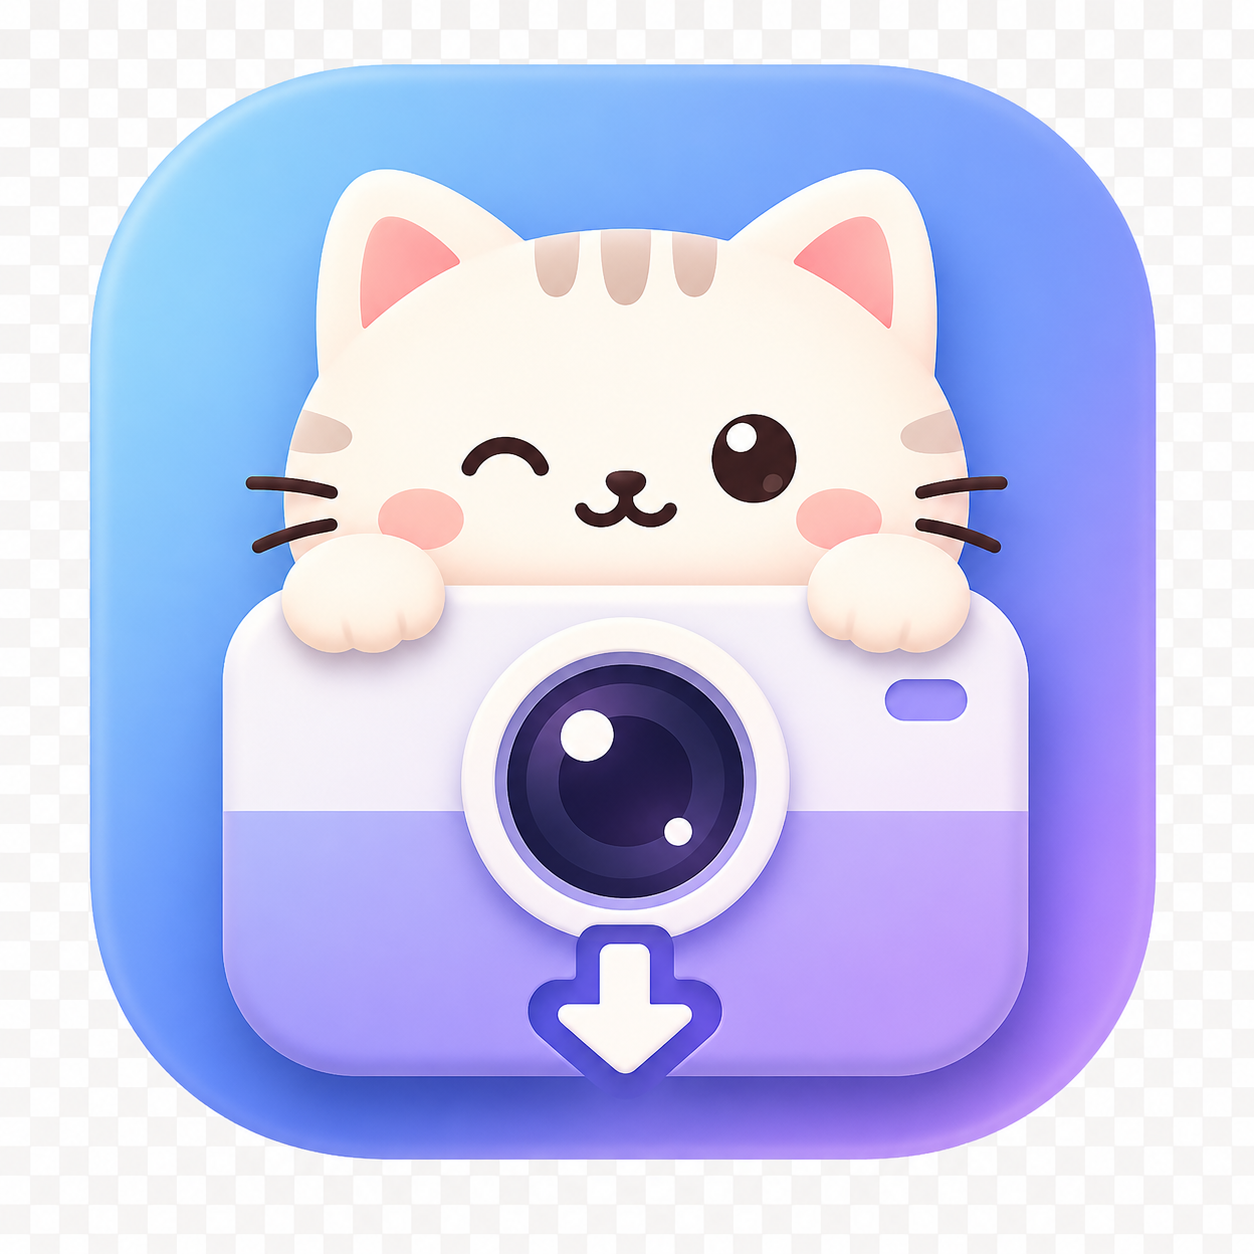
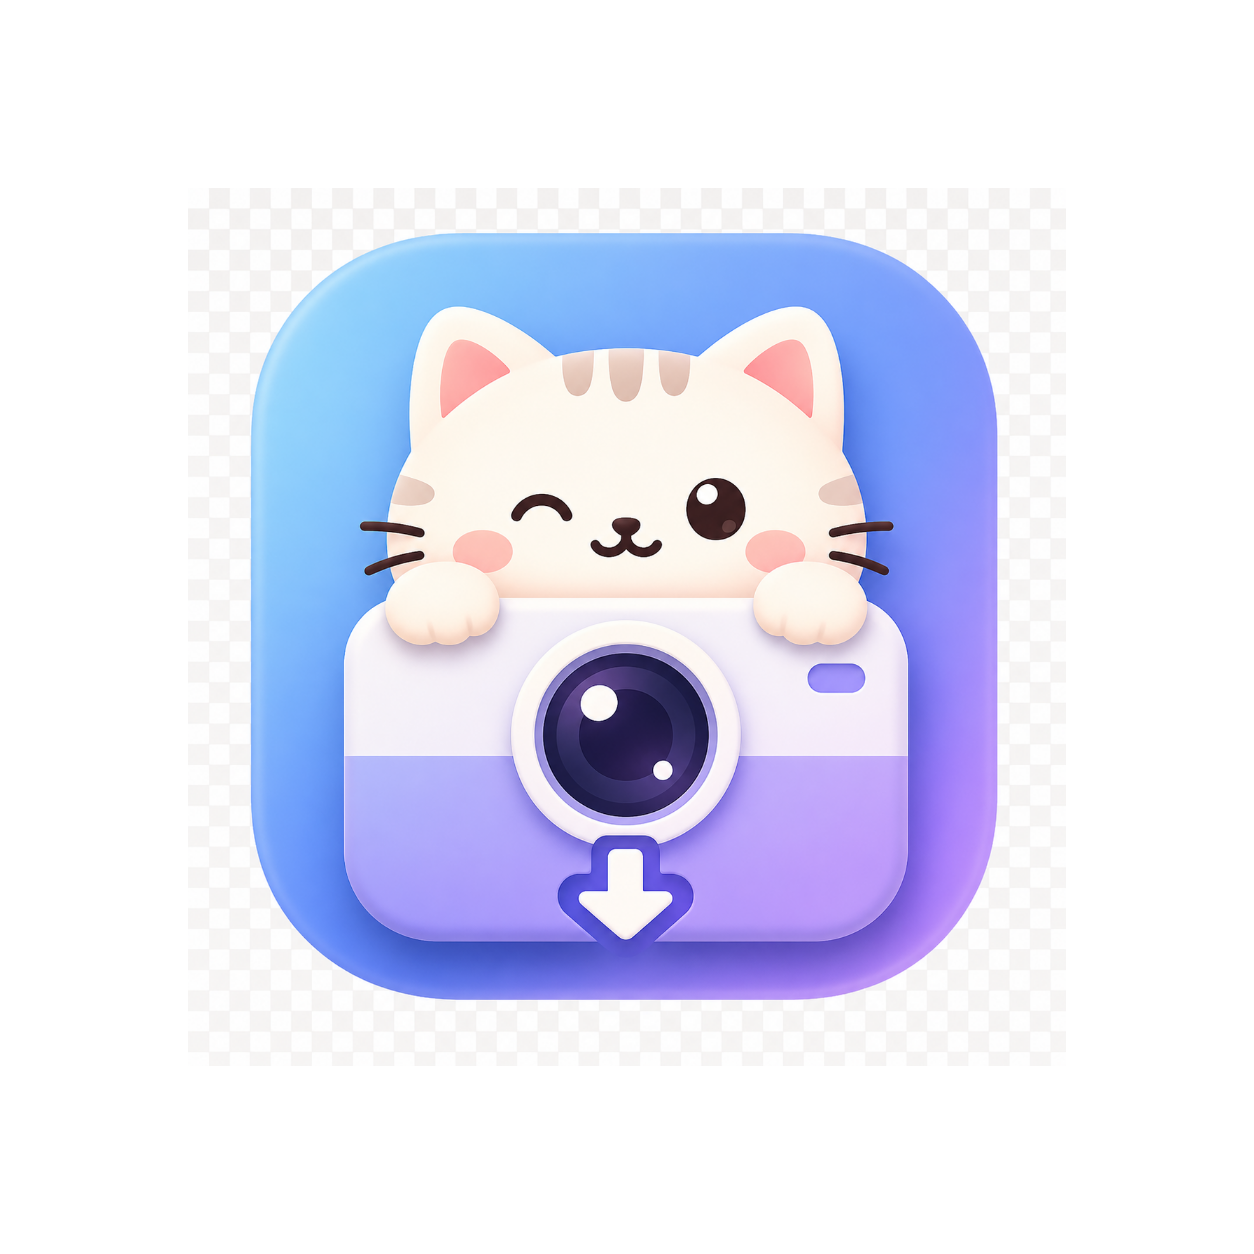
fix: 修复桌面启动图标被圆形/圆角裁切（标准自适应图标 + 升级 3.0.34）

diff --git a/app/src/main/java/com/linkgrab/app/ui/screens/UpdateLogScreen.kt b/app/src/main/java/com/linkgrab/app/ui/screens/UpdateLogScreen.kt
@@ -25,6 +25,11 @@ data class UpdateLogItem(val version: String, val date: String, val changes: Lis
 /** 最近几个版本，进页面就能看到。每条尽量一句话说清，改动少的版本统一写「修复已知问题」。 */
 val recentLogs = listOf(
     UpdateLogItem(
+        "3.0.34", "2026-10-25", listOf(
+            "修复桌面启动图标被圆形/圆角裁切：改为标准自适应图标（渐变背景层 + 透明底 logo 前景层）",
+        )
+    ),
+    UpdateLogItem(
         "3.0.33", "2026-10-25", listOf(
             "全应用统一按压震动：底栏、卡片、筛选、工具页按钮点击都有触感反馈",
         )

diff --git a/.workbuddy/memory/2026-10-25.md b/.workbuddy/memory/2026-10-25.md
@@ -1,0 +1,6 @@
+- v3.0.33（334）：全应用统一按压震动（Confirm 触感）。覆盖：五种底栏 tab（点击+拖拽）、IOS26Choice/IOS26ListRow、历史卡片（含长按）、工具箱 ToolRow、音乐/图片转换/视频转音频 chips、网盘直链（返回/关闭/网盘切换/文件行）、网页工具页重试/浏览器/关闭。commit a361fa9，双 APK 已入 dist，签名 868187d3…a72f。
+- v3.0.33 发布完成：GitHub + Gitee 推送并上传双 APK 均确认成功。GitHub Release id 423140195，Gitee Release id 1238792。
+- 网络排障经验：代理 7897 挂了、github.com 默认解析 IP（20.205.243.166）TCP 不通；用 `git -c http.curloptResolve="github.com:443:140.82.112.3" push` 强制走美国前端 IP 解决。20.205.243.168（api IP）能连但 git 操作 403（只服务 API）。DNS 服务器 119.29.29.29 解析异常时也可换 IP 直推。
+- 踩坑：LiquidBottomTabs 的 onDragStopped（DampedDragAnimation 的 remember lambda）和 NexioBottomTabs 的 pointerInput 手势块都在创建处闭包，haptic val 必须定义在这些 lambda 创建之前，否则 Unresolved reference。
+- APK 启动图标裁切修复（最终正确结论）：原自适应图标 `ic_launcher_foreground.png`(432) 是**无透明通道的全实底白方块**（白底+居中渐变圆角方块 logo），legacy `mipmap-*/ic_launcher.png` 也是白底实底方块。启动器裁成圆形时白角被切 → 用户看到的"裁切"。修复=标准自适应图标：背景层 `ic_launcher_background.png`（蓝紫渐变，与原图拟合一致）铺满形状 + 前景层 `ic_launcher_foreground.png` 只留 logo（猫+相机+下载箭头，透明底）。做法：从 git 取回原前景层，洪水填充定白边区域→透明，闭合解平面拟合渐变，与原图偏差>55 判为 logo（48-55 半透边缘）。5 个 legacy mipmap 也去白底变透明。改 `mipmap-anydpi-v26/ic_launcher.xml` 背景引用 `@drawable/ic_launcher_background`。验证：圆形裁切模拟图 logo 完整居中、渐变干净、无残留方块。已升 3.0.34(335) 出包。
+- 仓库根目录 `icon.png`（项目主页/头像）仍用 70% 居中带透明边距版（原设计稿未重画）。ViewImage 对透明 PNG 黑底渲染会误读内容，以像素数据为准。
